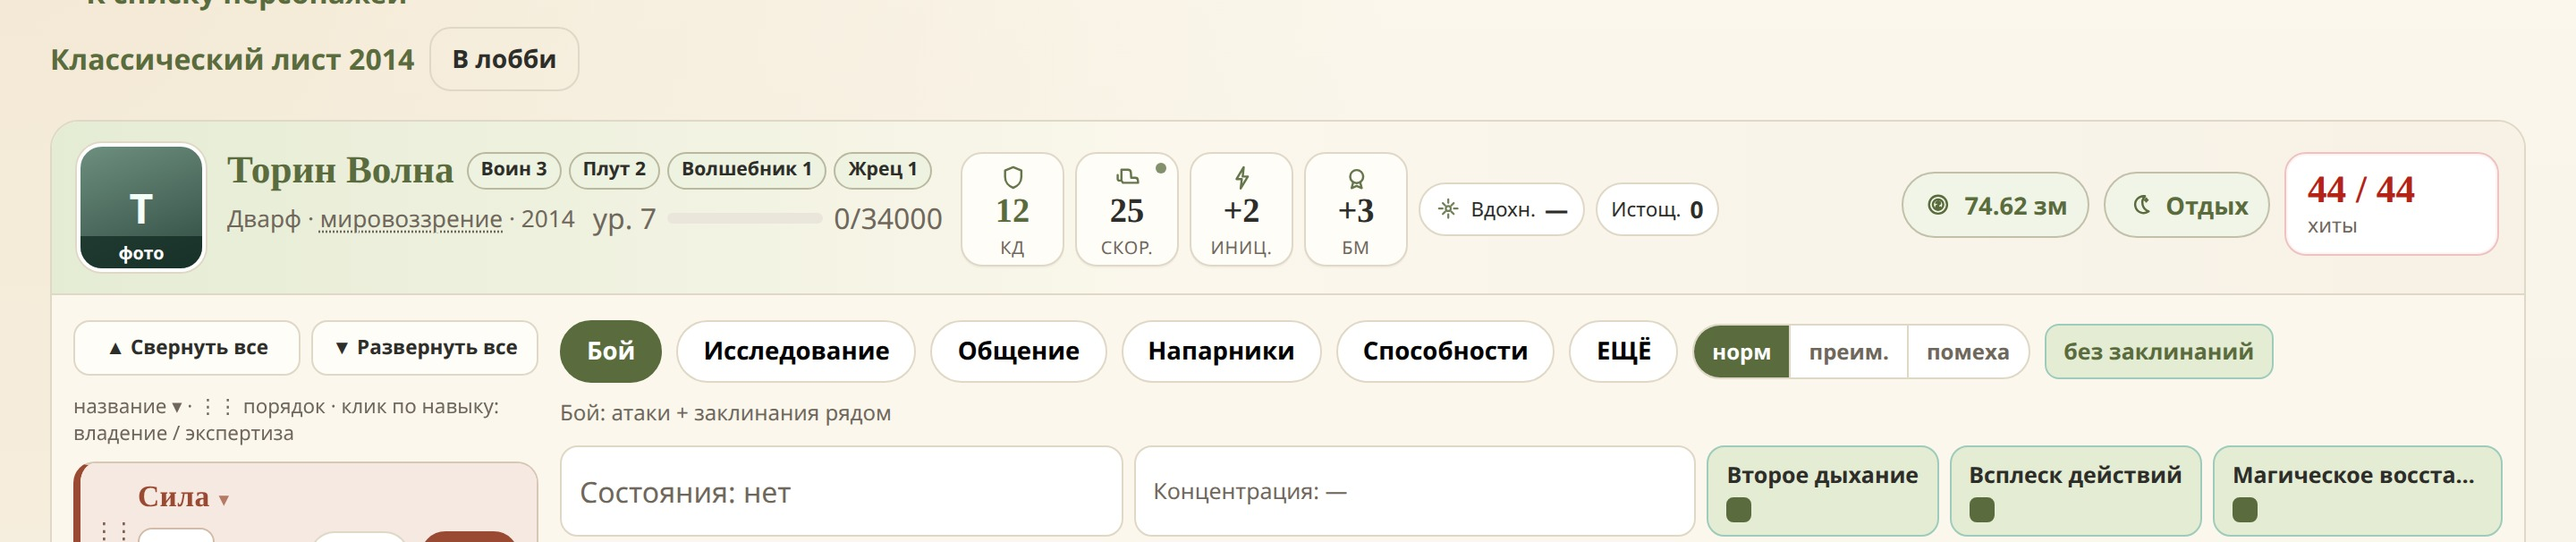
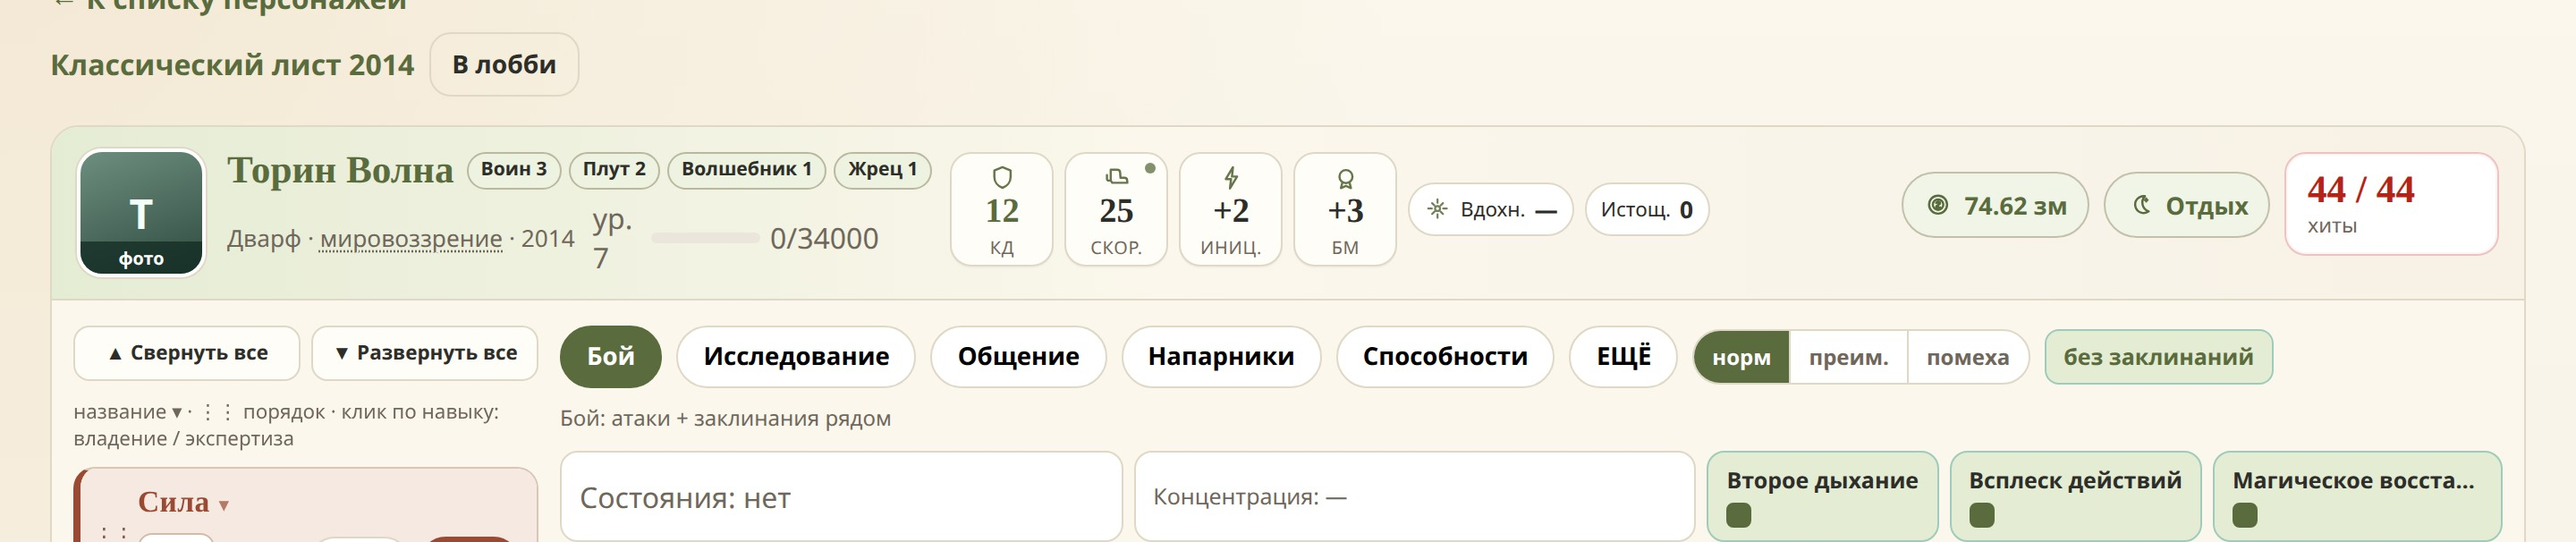
fix(header): who width max-content so vitals sit next to chips

diff --git a/frontend/src/index.css b/frontend/src/index.css
@@ -4428,10 +4428,12 @@ input {
 .play-desk-header__who {
   /* Hug content — leftover width goes between mid and right, not as empty who. */
   flex: 0 1 auto;
+  width: max-content;
   min-width: 160px;
-  max-width: 400px;
+  max-width: min(400px, 42vw);
   display: grid;
   gap: 3px;
+  justify-items: start;
 }
 
 .play-desk-header__who-main {
@@ -4468,6 +4470,8 @@ input {
   align-items: center;
   gap: 6px 10px;
   min-width: 0;
+  width: max-content;
+  max-width: 100%;
 }
 
 .play-desk-header__sub {
@@ -4540,9 +4544,9 @@ button.play-desk-header__sub--btn:hover {
   font-size: 0.7rem;
   color: var(--desk-muted);
   width: auto;
-  min-width: 140px;
-  max-width: 200px;
-  flex: 1 1 140px;
+  min-width: 120px;
+  max-width: 180px;
+  flex: 0 1 160px;
   padding: 0;
   border: 0;
   background: transparent;
